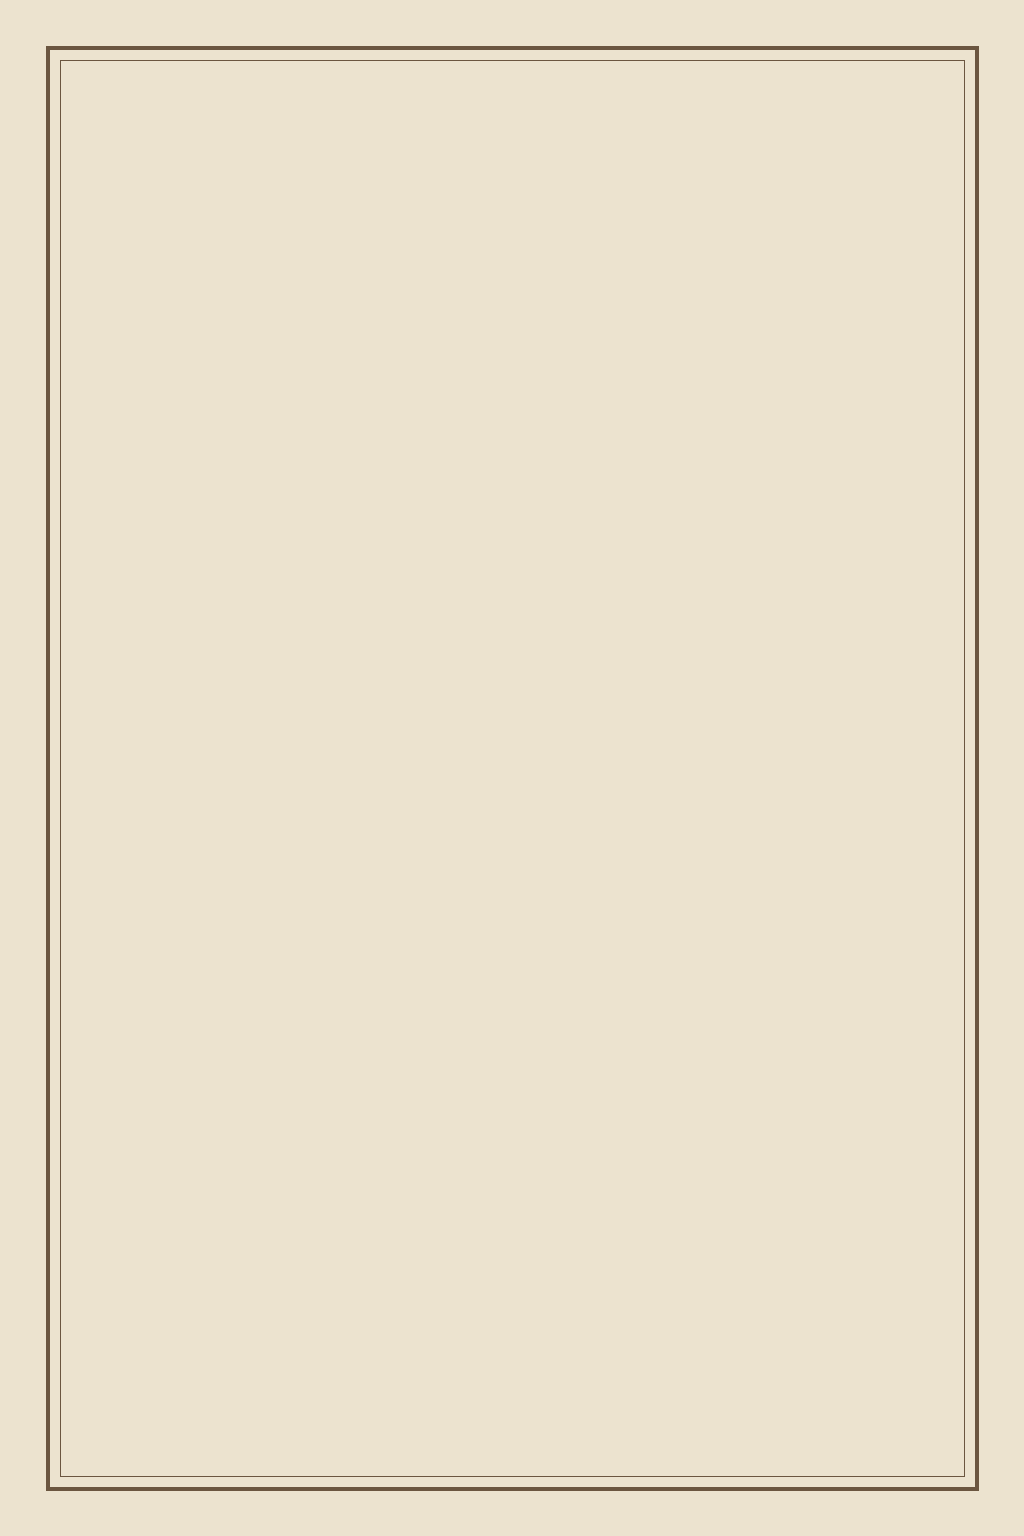
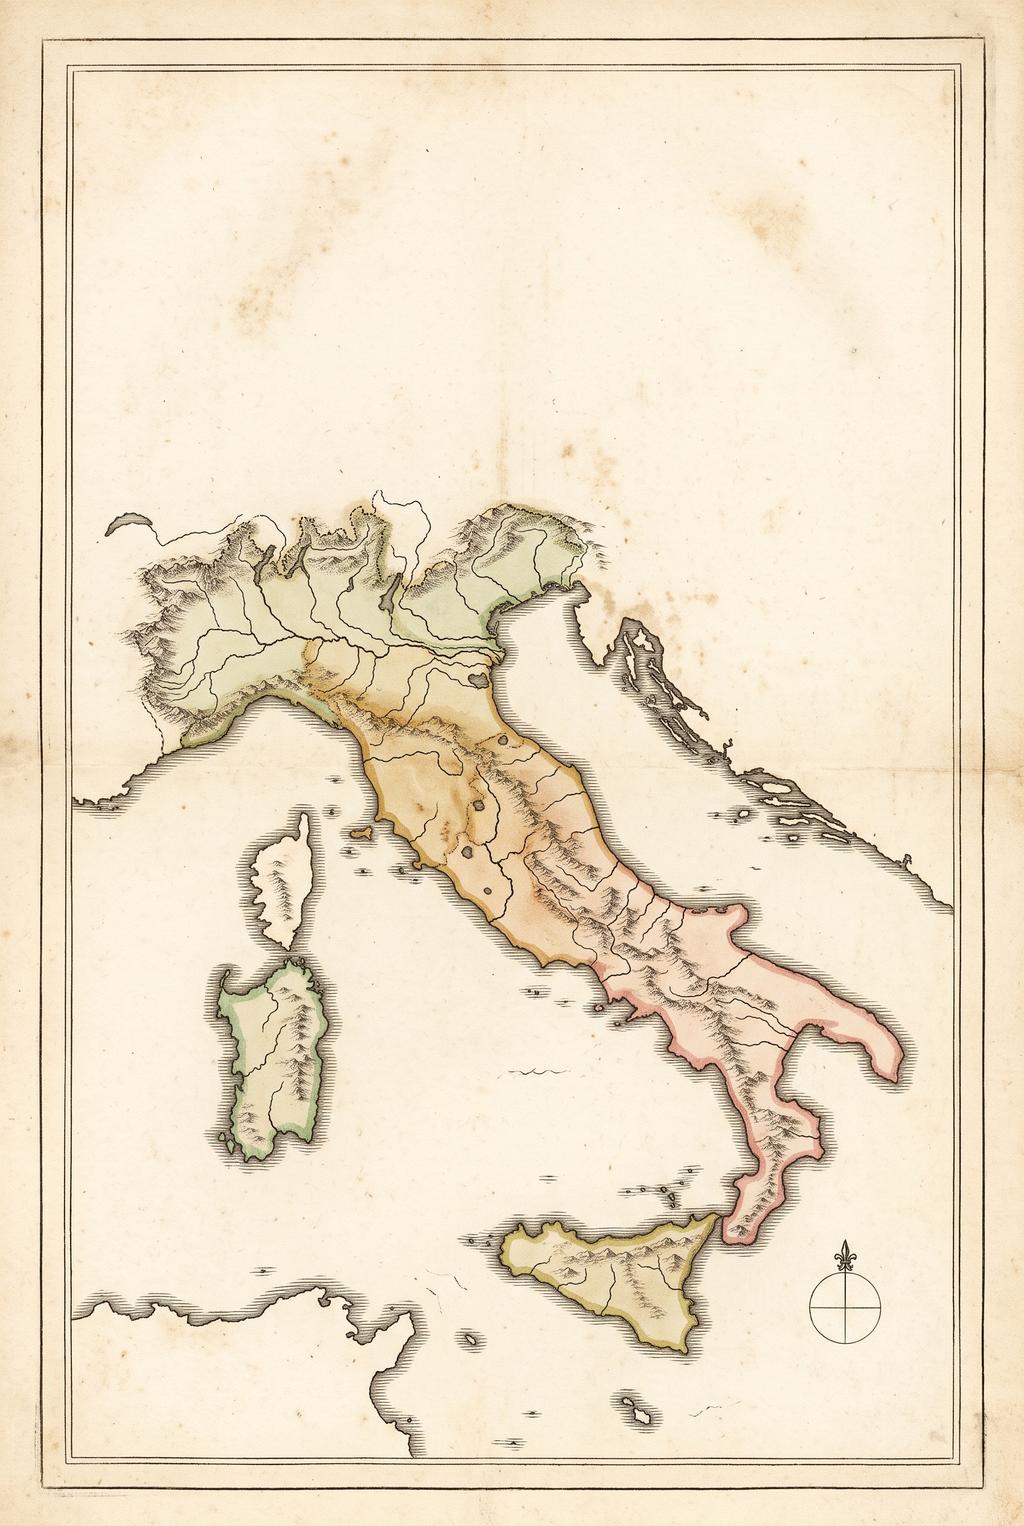
books/una-padella: Gemini plates (ingredients, steps) and antique-map cover; cover without subtitle
Claude-Session: https://claude.ai/code/session_018EVSP3cRfiuz2Dc7sd2JfR

Changed region(s): [[0.0, 0.0, 1.0, 1.0], [0.7812, 0.8008, 0.875, 0.8932]]

diff --git a/popup-book/books/una-padella/spreads/10-prep.js b/popup-book/books/una-padella/spreads/10-prep.js
@@ -7,13 +7,13 @@ const sp1 = flatSpread({
     { p: '這本食譜只用兩樣器材：一台 IH 電磁爐、一個平底鍋。麵、醬、牛肉全部在同一個平底鍋裡完成，吃完只要洗這一個鍋。' },
     { figs: ['f-cooktop', 'f-pan'], h: 0.12 },
     { p: '麵用一般的 spaghetti，不用折斷。醬用 Vono 濃湯粉，也可以換成康寶的醬。' },
-    { figs: ['f-pasta', 'f-packet', 'f-butter', 'f-beef'], h: 0.075 },
   ],
   right: [
     { h2: '材料' },
     { table: { cols: [0.44, 0.28, 0.28], head: ['', '一人份', '兩人份'], align: ['l', 'r', 'r'], rows: [
       ['spaghetti', '100 g', '200 g'], ['水', '700 ml', '1 L'], ['Vono 濃湯粉', '1 包', '1 包'],
       ['奶油（可省略）', '10 g', '20 g'], ['牛肉火鍋片', '100 g', '200 g']] } },
+    { figs: ['f-pasta', 'f-packet', 'f-butter', 'f-beef'], h: 0.085 },
     { p: '[[不用準備鹽]]。濃湯粉本身已經夠鹹，煮麵的水裡再加鹽，整盤麵很容易太鹹。' },
     { h2: '順序' },
     { p: '先煮麵，麵吃完再用鍋底剩下的醬煮牛肉。還想再吃，鍋子不用洗，直接煮第二輪。' },

diff --git a/popup-book/books/una-padella/spreads/00-layout.js b/popup-book/books/una-padella/spreads/00-layout.js
@@ -6,7 +6,7 @@
 //   { chart: (c, x, yTop, w) => height }               { note }  small grey text      { gap }
 const PG = { L: -0.6, R: 0.072, W: 0.53, TOP: 0.448 };
 const TXT = { body: 0.0262, lh: 1.65, h1: 0.042, h2: 0.029, note: 0.019 };
-const ART_READY = [];   // plate ids that exist in art-src (filled in when the Gemini art comes back)
+const ART_READY = ['f-cooktop', 'f-pan', 'f-pasta', 'f-packet', 'f-butter', 'f-beef', 'p-ends', 'p-pressed', 'p-pour', 'p-sauce', 'p-beef', 'p-wipe'];
 const TONE = { gold: '#b88c3a', silver: '#98a2ab', pd: '#7f858c', blue: '#2d5f73', grey: '#b9b2a4', red: '#9b3b2a' };
 const fmtN = (v, d = 0) => v.toLocaleString('en-US', { minimumFractionDigits: d, maximumFractionDigits: d });
 
